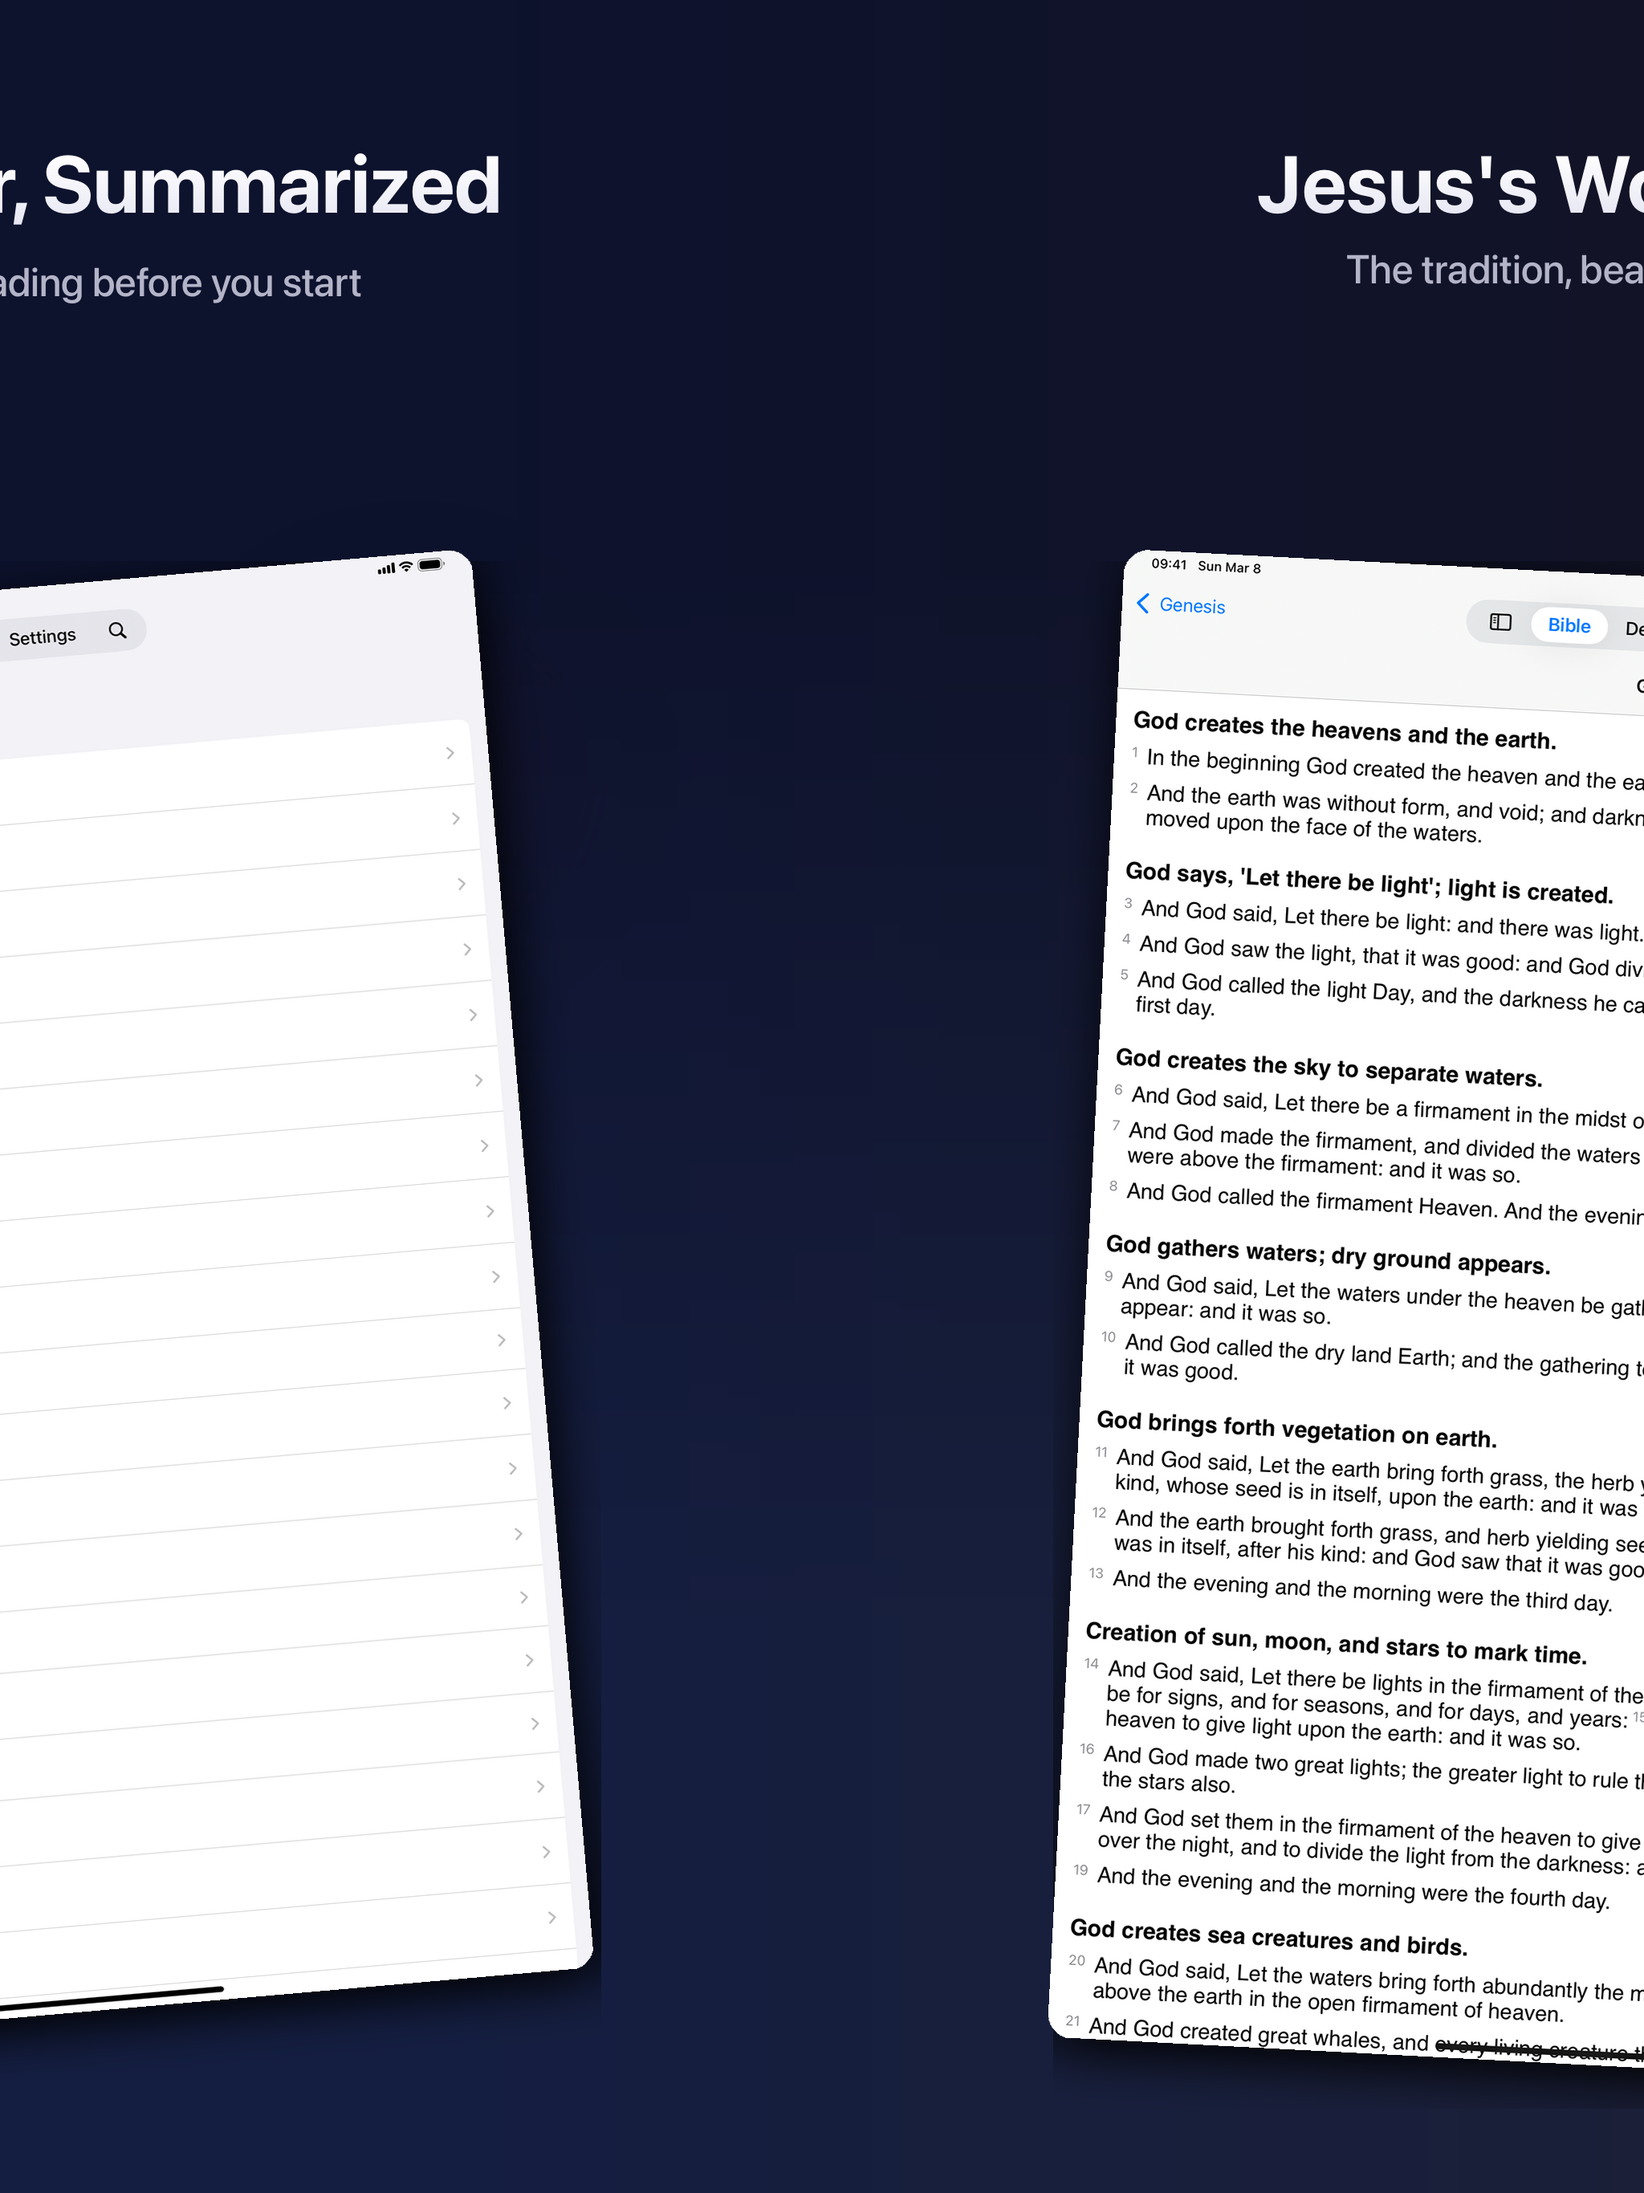
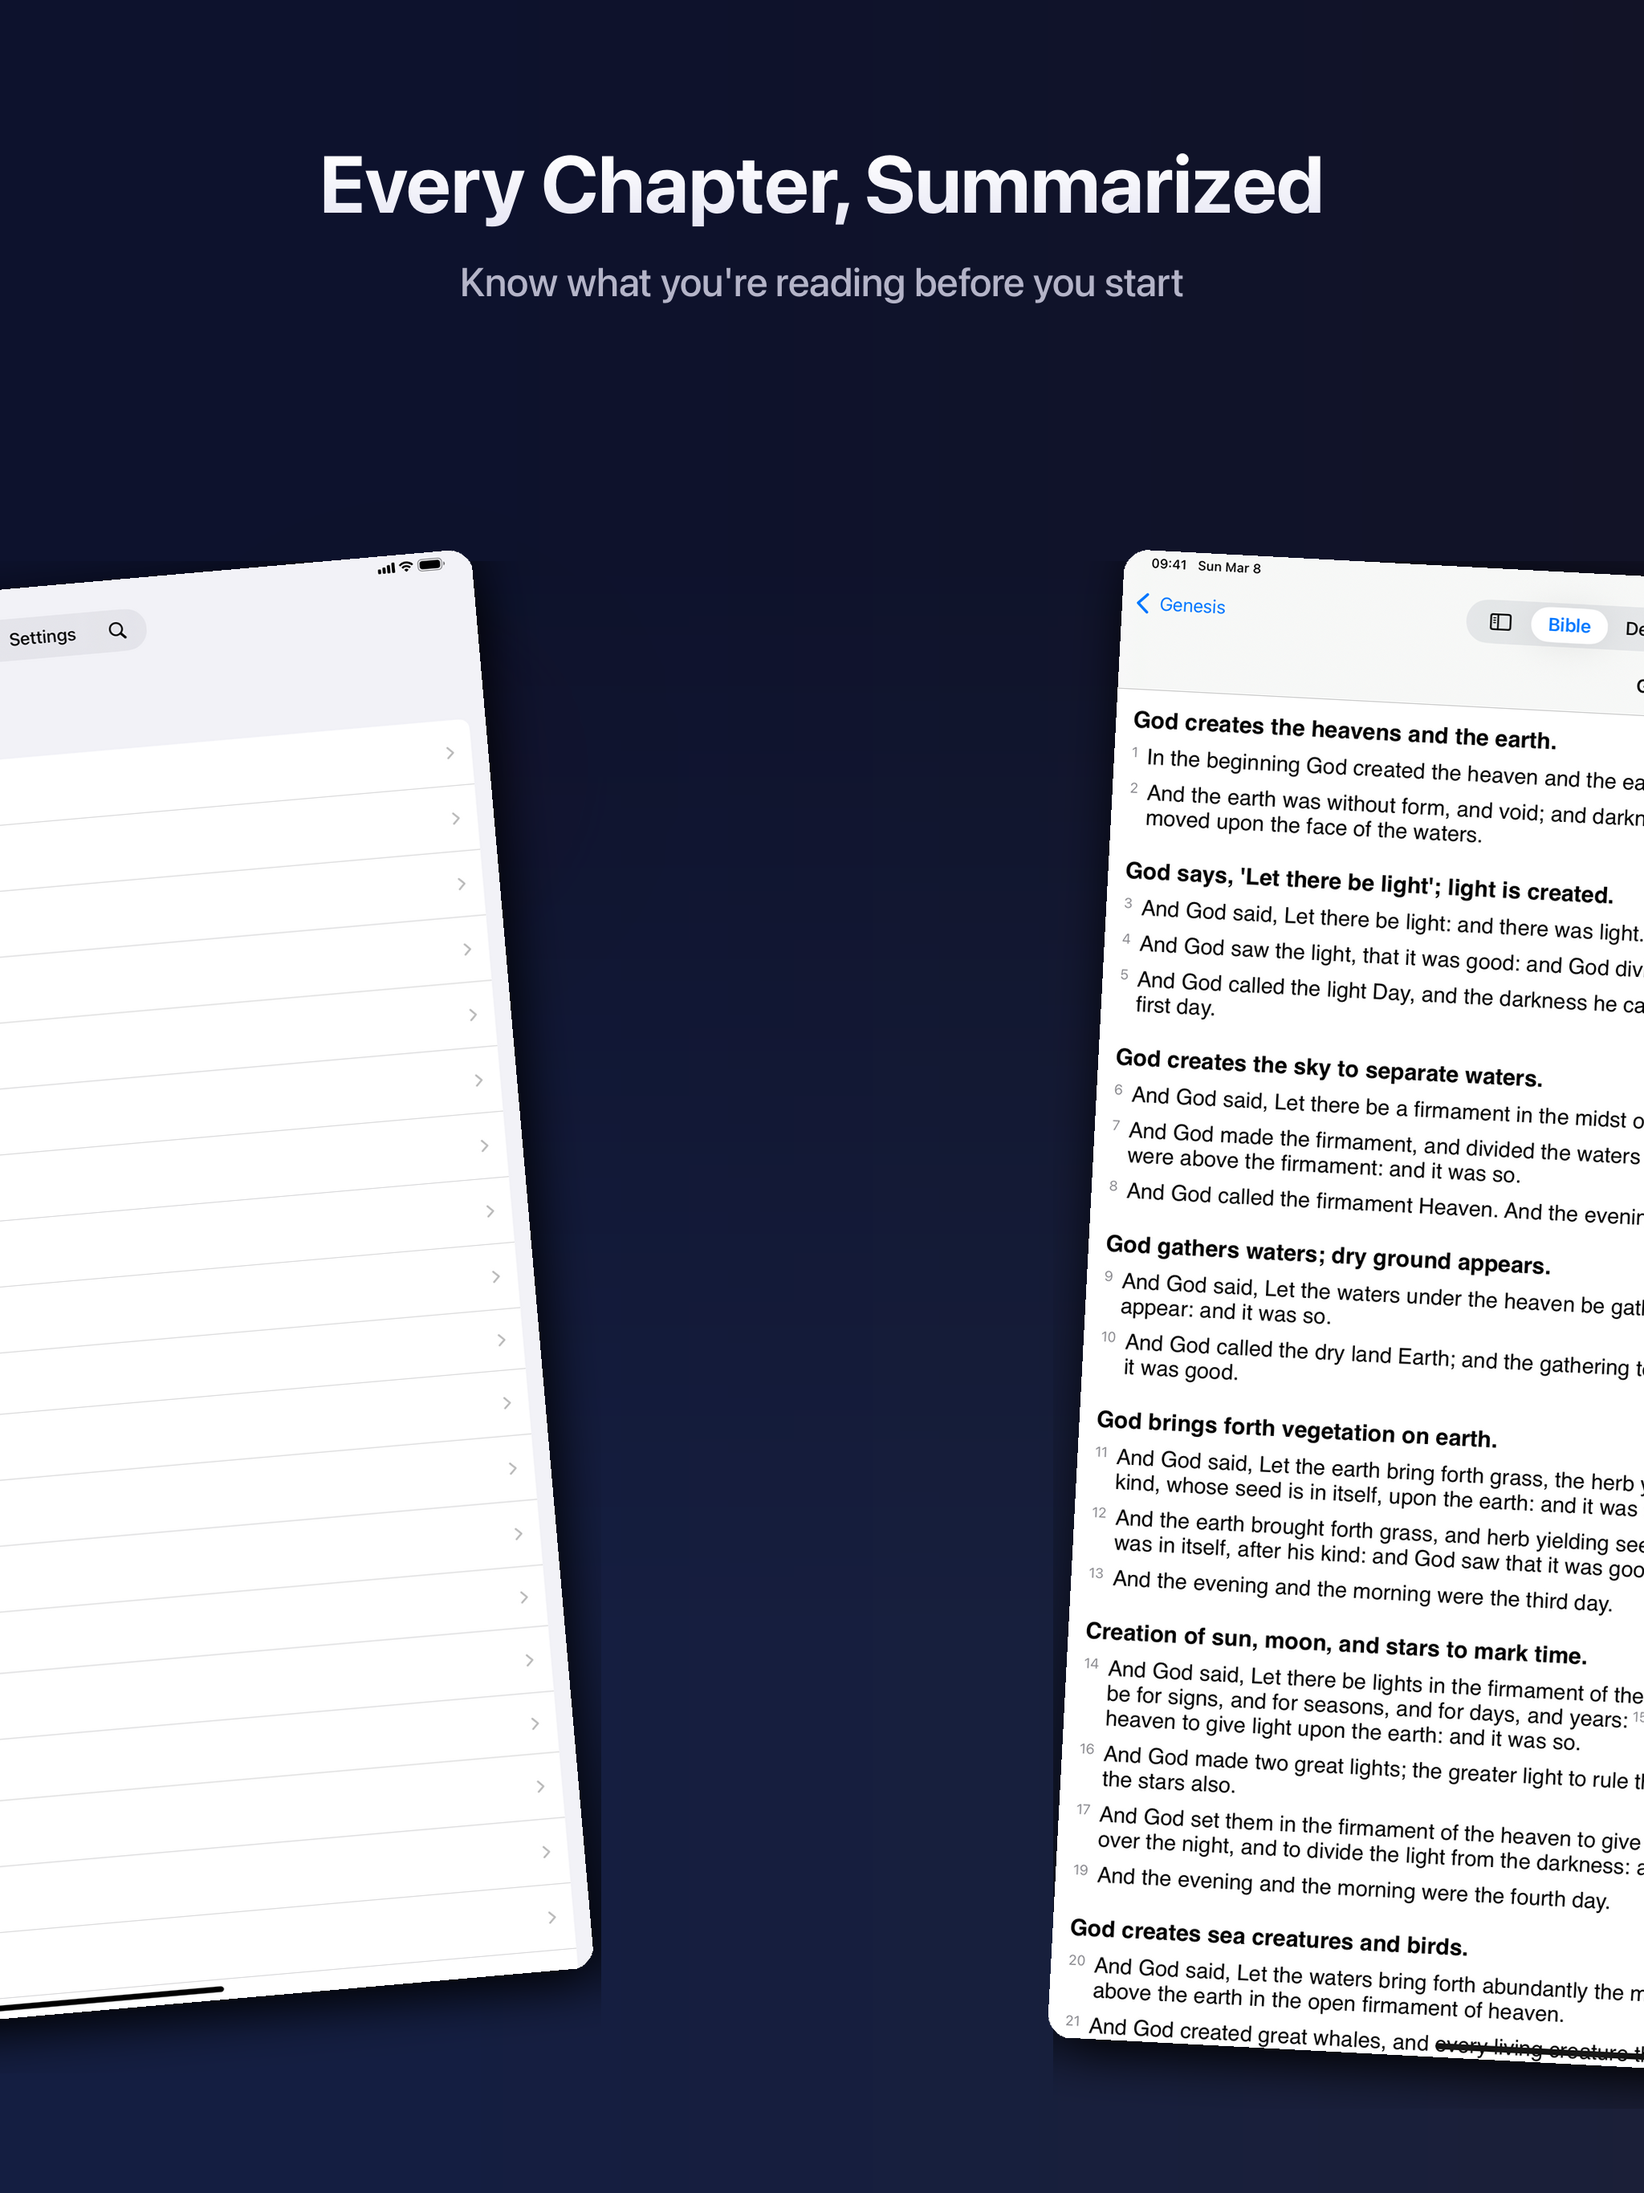
Fix ultimate strip headlines: offset into frames instead of cut lines
- Shift headlines into adjacent frames so text isn't split in half
- Last two devices shift LEFT to avoid colliding with outro text
- All other devices shift RIGHT into the next frame

Changed region(s): [[0.0, 0.0622, 1.0, 0.1556]]

diff --git a/appstore/generate_marketing_screenshots.py b/appstore/generate_marketing_screenshots.py
@@ -1034,20 +1034,33 @@ def generate_ultimate_strip(device_name, device_config, raw_dir, out_dir):
             scale, corner_r, canvas_w, angle,
         )
 
-        # Headline + subtitle
+        # Headline + subtitle — offset into an adjacent frame so text isn't
+        # split across two frames at the cut line.
+        # Last device: shift LEFT (right frame is the outro).
+        # All others: shift RIGHT (into the next frame).
         if shot["headline"]:
             if scale >= 0.75:
                 hl_grad_bot = TINT_TEAL_HERO
             else:
                 hl_grad_bot = TINT_NEUTRAL
 
+            remaining_count = len(shots) - 1  # total devices after hero
+            is_last_two = (j >= remaining_count - 2)  # last 2 devices
+
+            if is_last_two:
+                # Shift into the LEFT frame to avoid colliding with outro
+                headline_cx = cut_x - canvas_w // 2
+            else:
+                # Shift into the RIGHT frame
+                headline_cx = cut_x + canvas_w // 2
+
             hl_h = draw_gradient_text_at(
-                canvas, shot["headline"], cut_x, text_y,
+                canvas, shot["headline"], headline_cx, text_y,
                 headline_font, (255, 255, 255), hl_grad_bot,
             )
             if shot["subtitle"]:
                 draw_text_at(
-                    canvas, shot["subtitle"], cut_x,
+                    canvas, shot["subtitle"], headline_cx,
                     text_y + hl_h + text_gap,
                     subtitle_font, SUBTITLE_COLOR_STRIP,
                 )
